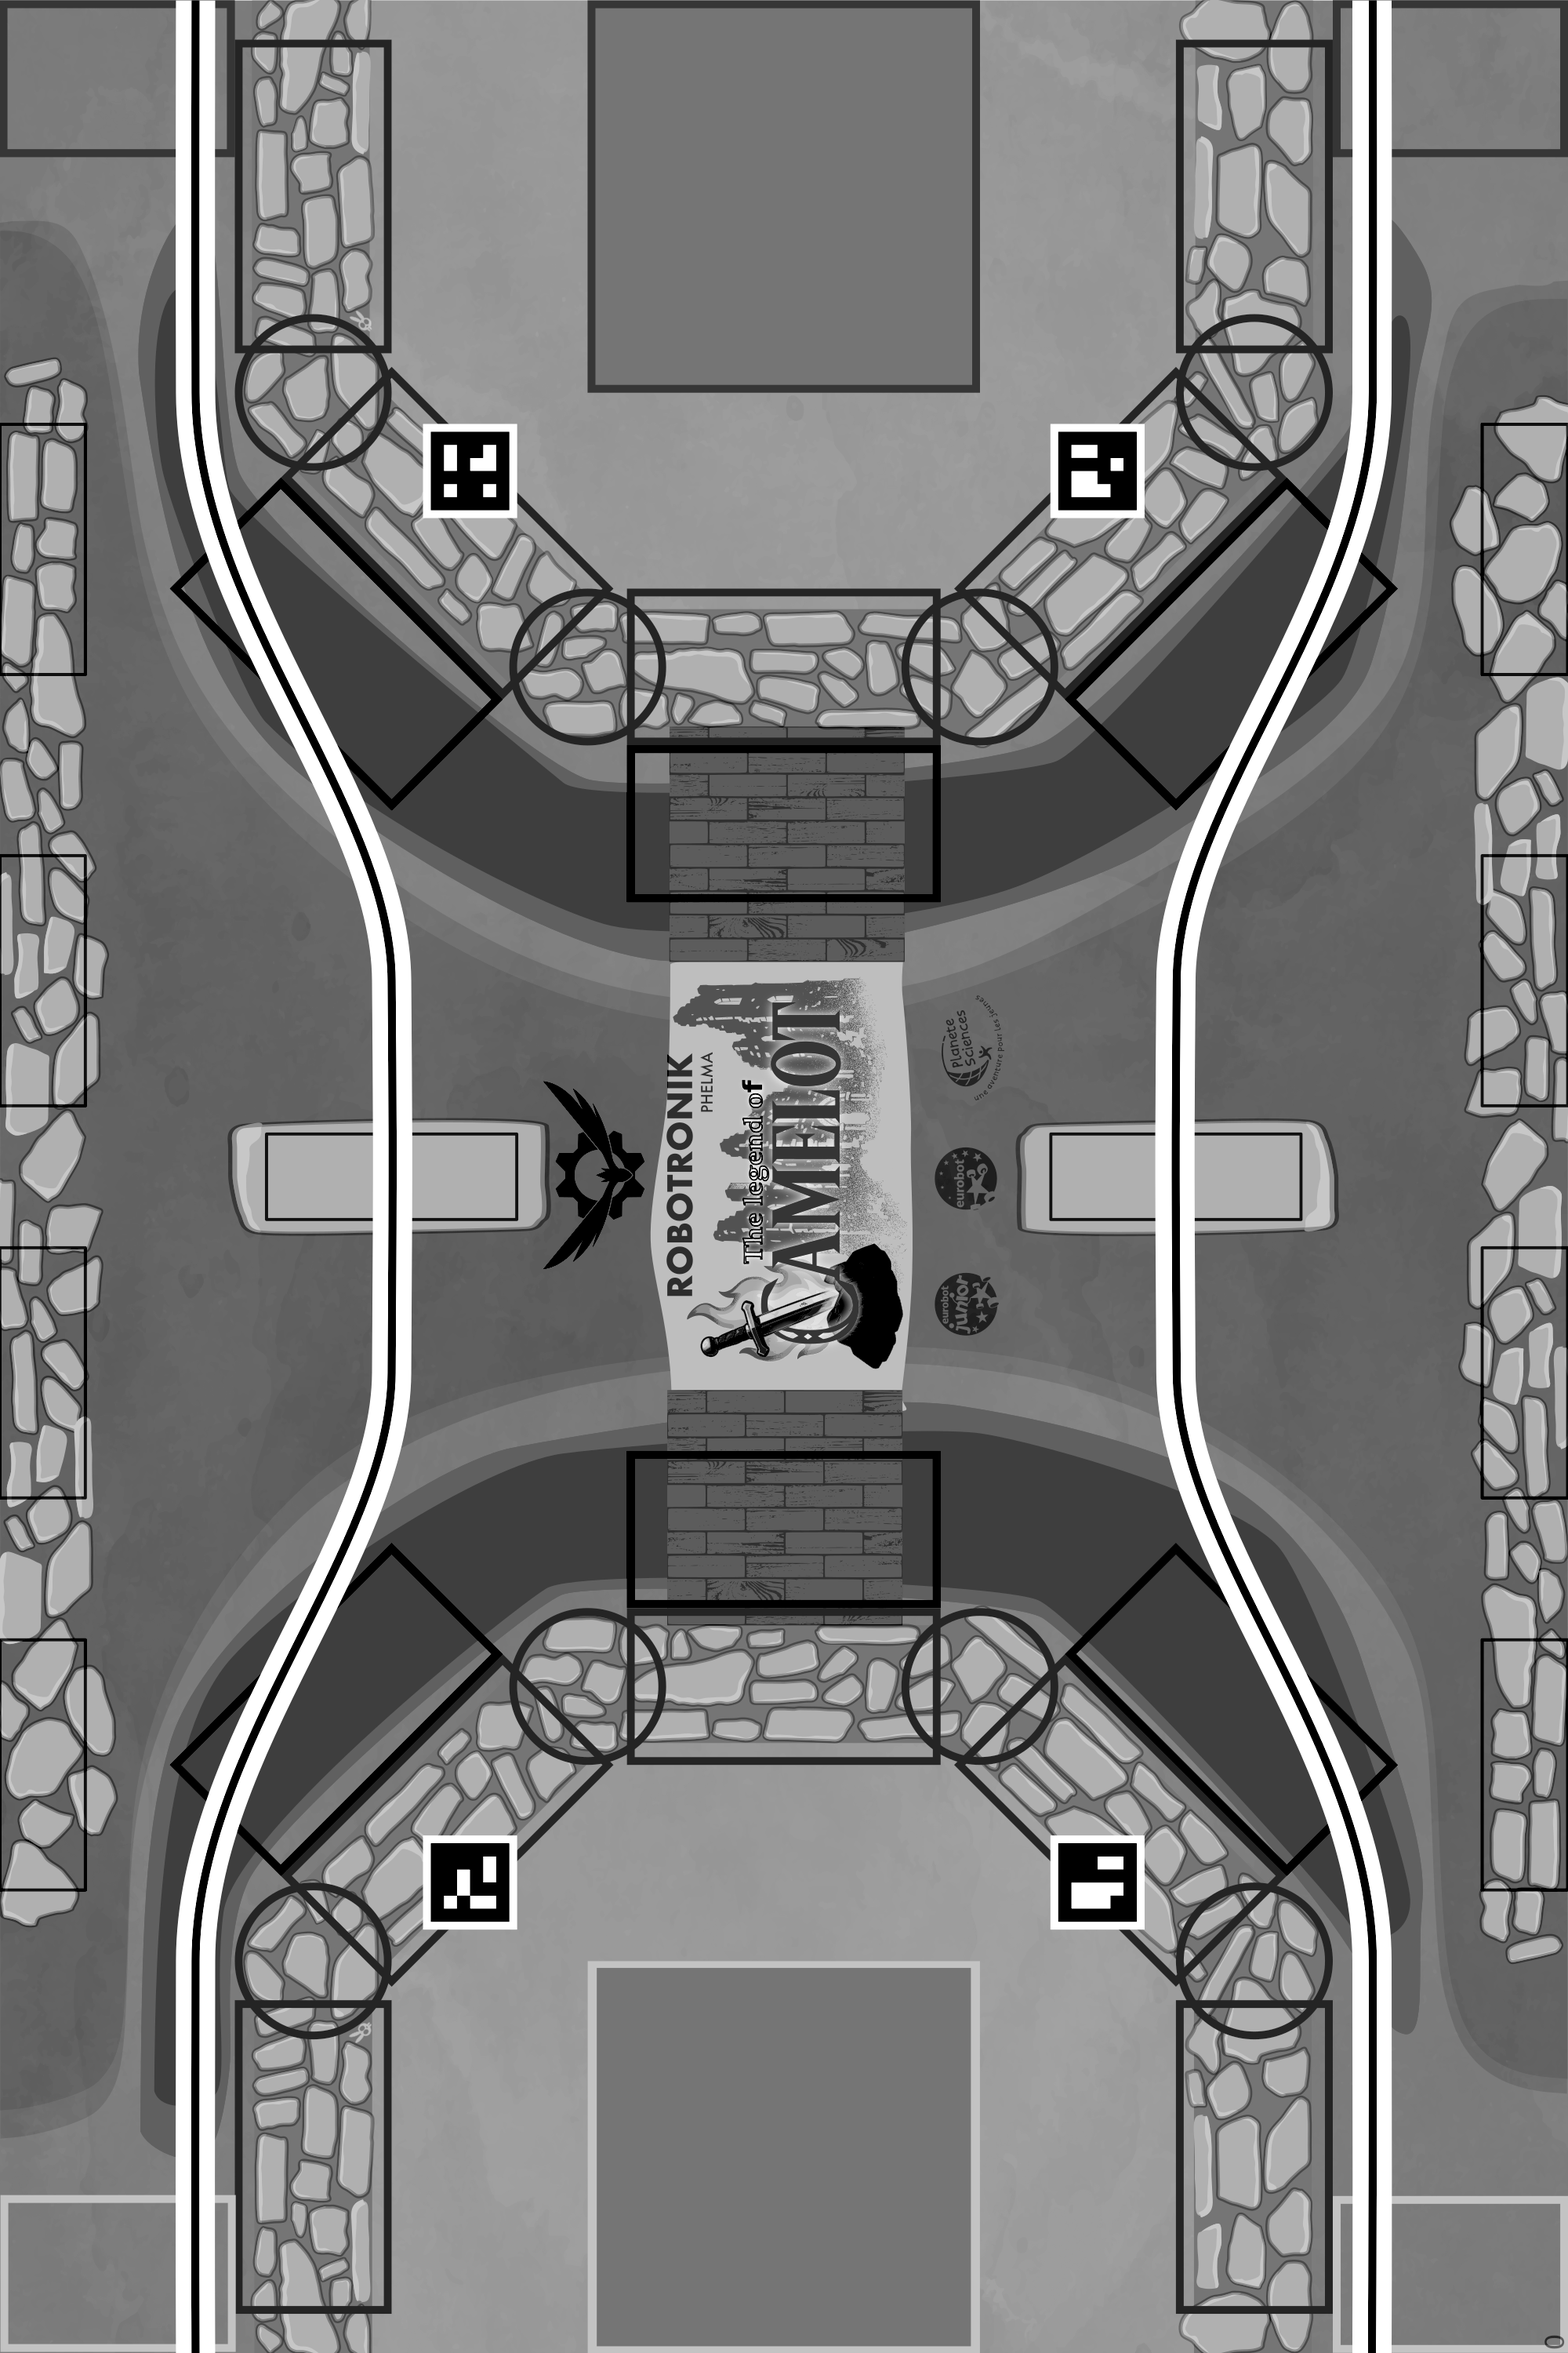
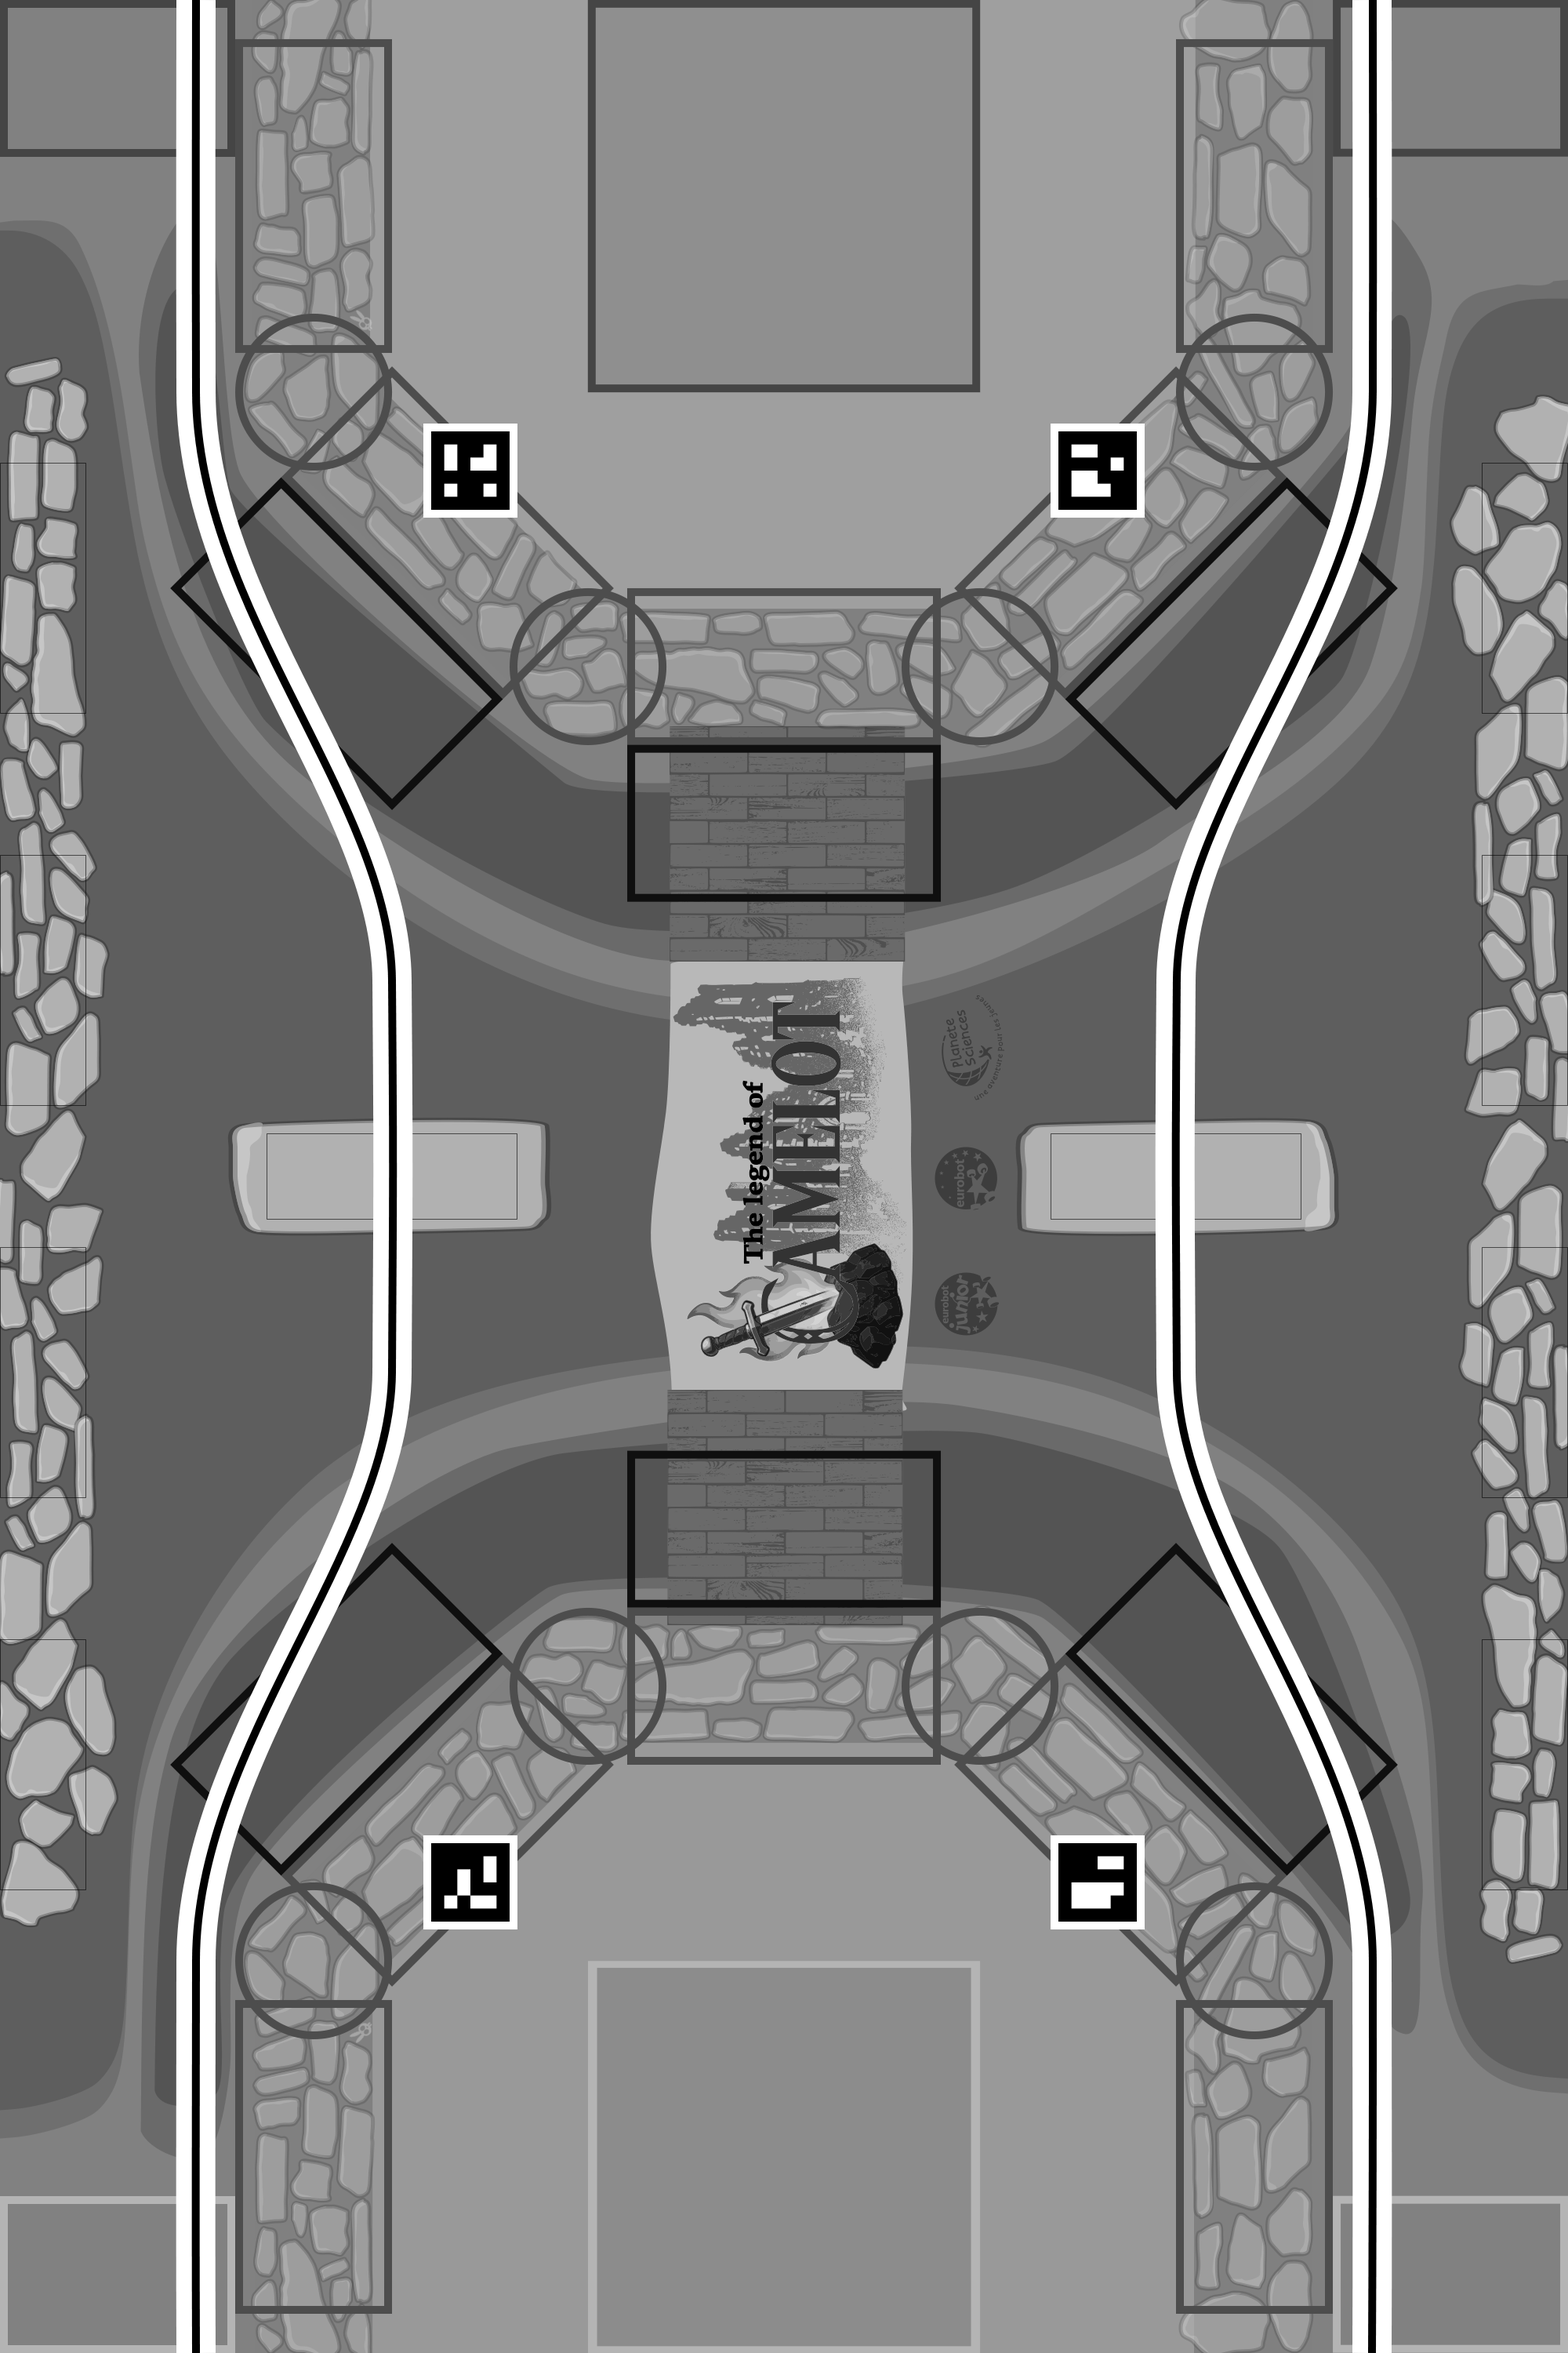
Regenerate the field map from the print file
FieldBW.png was an old export of the field at 1.00000 px/mm. Rebuild it from the
print file (table.svg, 3000x2000 mm) rendered at 1 px/mm, rotated 90 deg CCW and
desaturated, so the map is the vinyl itself: the landmark tags land at exactly
(+/-400, +/-900) mm, and the origin stays at the image centre.

Poses against the previous map agree to 2.1 mm mean / 14 mm max on the 40
captures where neither fits the field 180 deg rotated, and the features test
still solves 43/44.

The map now lives only in data/, where Cam loads it; the test helper looks there
too.

diff --git a/tests/test_features.cpp b/tests/test_features.cpp
@@ -30,6 +30,7 @@ std::string findFeaturePath(const std::string& name) {
         "tests/data/features/" + name,
         "../tests/data/features/" + name,
         "data/features/" + name,
+        "data/" + name,
     };
     for (const std::string& path : candidates) {
         if (!cv::imread(path, cv::IMREAD_GRAYSCALE).empty()) {

diff --git a/docs/camera.md b/docs/camera.md
@@ -16,9 +16,11 @@ high-pass + CLAHE normalisation is what delivers lighting robustness.
 
 - OV9281 mono, 1280×800, driven through **libcamera** on the Pi 5.
 - `data/OV9281_1280_800.yaml` — OpenCV intrinsics.
-- `data/FieldBW.png` (= `tests/data/features/FieldBW.png`) — top-down map,
-  **1.00000 px/mm**, 2000×3000 mm, origin at image centre. True scale matches the
-  printed vinyl (tags land within 0.6 mm), so it is the metric reference.
+- `data/FieldBW.png` — top-down map, **1.00000 px/mm**, 2000×3000 mm, origin at
+  image centre, greyscale. Rendered from the print file (`table.svg`, Inkscape,
+  3000×2000 mm) at 1 px/mm, rotated 90° CCW, desaturated — so it is the printed
+  vinyl, metric by construction: the landmark tags land at exactly
+  (±400, ±900) mm.
 
 ## Mounting
 
